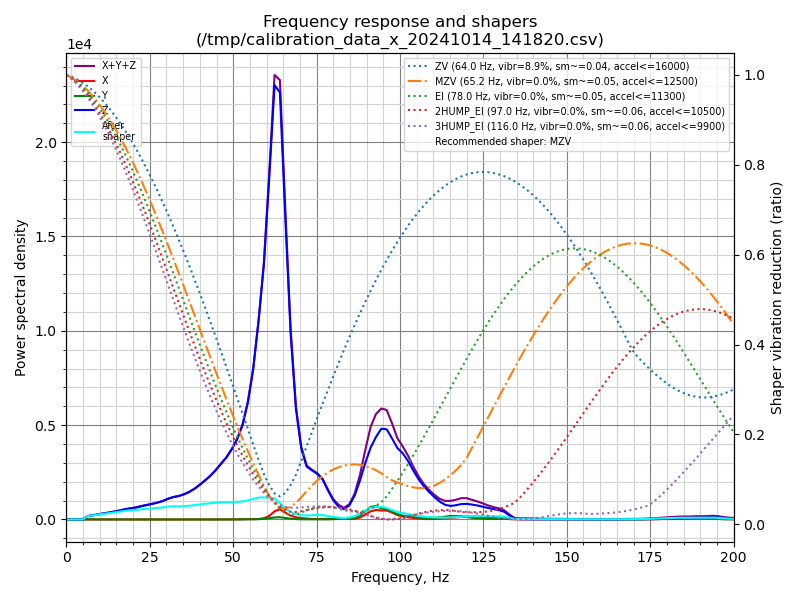
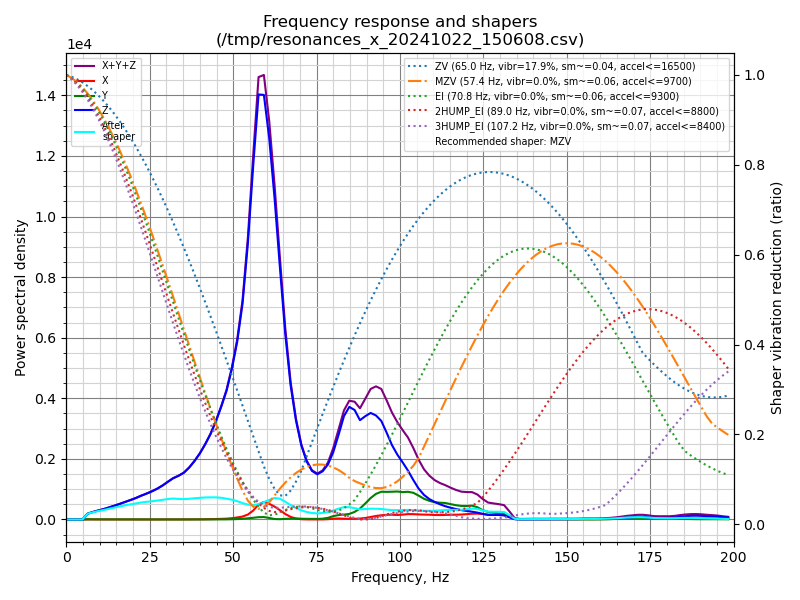
input shaped. Better accel/velocities

Changed region(s): [[0.0312, 0.03, 0.9375, 0.9], [0.5625, 0.12, 0.5938, 0.18], [0.7812, 0.18, 0.8125, 0.21]]

diff --git a/README.md b/README.md
@@ -90,8 +90,8 @@ TEST_RESONANCES AXIS=Y # Calibrate just Y
 
 To get a graph, run:
 ```
-./scripts/calibrate_shaper.py /tmp/calibration_data_x_*.csv -o ~/printer_data/config/shaper_calibrate_x.png
-./scripts/calibrate_shaper.py /tmp/calibration_data_y_*.csv -o ~/printer_data/config/shaper_calibrate_y.png
+~/klipper/scripts/calibrate_shaper.py /tmp/calibration_data_x_*.csv -o ~/printer_data/config/shaper_calibrate_x.png
+~/klipper/scripts/calibrate_shaper.py /tmp/calibration_data_y_*.csv -o ~/printer_data/config/shaper_calibrate_y.png
 ```
 
 ## tmc setter autotune
